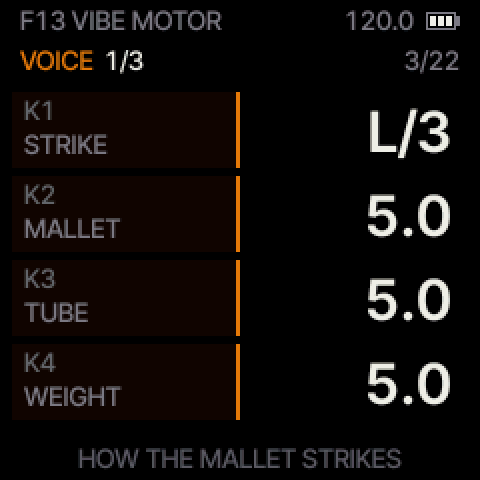
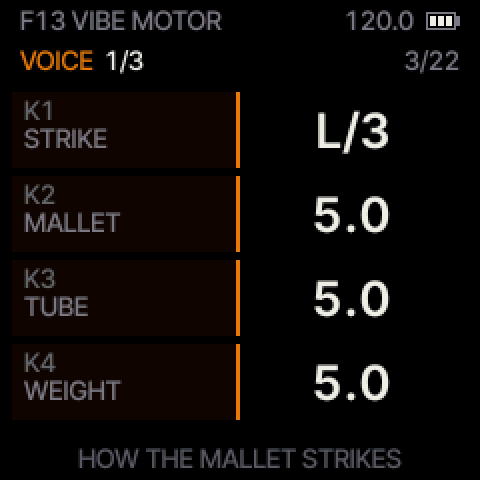
UI: design A is the default (fader fill, selector blocks, switch light), the value face 24 px with room to breathe
The user picked A at 24 px from sizes-A.png, then: "font need to breathe but like the design".
- CC 11's default is 3 (A): amounts the FADER fill (the edge never crosses text), selectors one block per option lit
  up to the option (over 16 options only the blocks' caps), ON / OFF a lit dot / a ring. CC 11 keeps 0 (the rows
  before the design pass), 1 FADER, 2 LINE, 4 B (pips), 5 C (BACK) for comparing on the FM-1 (not saved).
- The large face is 24 px by default (aatext.c UI_VAL_PX; 25 and 28 still build); the 28 px AF_L leaves the image.
- Breathing room (UI_BREATHE, on with 24 px): +0.75 px between the value's letters (aatext.c AA_L_TRACK16, the
  large face only: values, the TYPE flash, the splash), the value 4 px further from the right edge (right margin
  12 px), the unit 5 px after the number (was 3), 14 px at least between the label and the value (was 12). The
  rows keep 38 px (4 cards + header + footer fill the 240 px): the 24 px capitals already have 10 px above and below.
  Compared in private/ui-simplify/design-pass/breathe.png (tools/cards_sheet.py --breathe).
- Short forms now (fitscan): only on ASSIGN: TREM/WAH -> TRM/WAH, COMP MKUP -> CMP GAIN, TREM RATE -> TRM RATE,
  TREM SHAPE -> TRM SHP, PHA SPEED -> PHA SPD, PHA FEEDBK -> PHA FDBK, CHO SPEED -> CHO SPD, DLY FEEDBK -> DLY FDBK;
  every TYPE name in full.
- Merged main (aa9fc44: 9 voices, the All Notes Off fixes); README conflict resolved (9 voices + the new card text).
[…]

diff --git a/tests/py/test_ui_cards.py b/tests/py/test_ui_cards.py
@@ -36,18 +36,23 @@ W, RH = 228, 38                                                   # ui.c RW_W, R
 STYLE = {1: {"amount": "F", "select": "F", "toggle": "F"}, 2: {"amount": "L", "select": "L", "toggle": "L"},
          3: {"amount": "F", "select": "S", "toggle": "D"}, 4: {"amount": "F", "select": "P", "toggle": "D"},
          5: {"amount": "F", "select": "S", "toggle": "B"}}
-# every value written in its short form (ui.c CD_LONG / CD_SHORT) at 28 px: (page, label, short form)
-SHORT = {("FRODHES", "TYPE", "FELT"), ("FRODHES", "TYPE", "DYNO")} | {("ASSIGN", "PLAYS", s) for s in
-                                          ("TRM/WAH", "CMP THR", "CMP GAIN", "TRM RATE", "TRM SHP", "PHA SPD",
-                                           "PHA FDBK", "CHO SPD", "DLY FDBK")}
+# every value written in its short form (ui.c CD_LONG / CD_SHORT) in the default build (24 px, breathing):
+# (page, label, short form); the other sizes: no value that does not fit
+SHORT = {("ASSIGN", "PLAYS", s) for s in ("TRM/WAH", "CMP GAIN", "TRM RATE", "TRM SHP", "PHA SPD", "PHA FDBK",
+                                          "CHO SPD", "DLY FDBK")}
+DEF_PX = 24                                                       # aatext.c UI_VAL_PX
 KEYS = M.KEYS + [f"rowbox{k}" for k in range(4)] + ["cards"]
 SYNC_NAMES = {"1/32", "16T", "1/16", "8T", "16D", "1/8", "4T", "8D", "1/4", "4D", "1/2", "1/1", "2BAR", "4BAR"}
 LOOK_C = [False]
 
 
+def type_lines(cc_n, v):
+    return [cc(100, cc_n, v)]
+
+
 def binary(px):
-    """the host build with the large face at px (28: the normal one)"""
-    if px == 28:
+    """the host build with the large face at px (DEF_PX: the normal one)"""
+    if px == DEF_PX:
         hostrun.build()
         return hostrun.BIN
     b = os.path.join(hostrun.ROOT, "build", "host", f"frodhes_v{px}")
@@ -60,12 +65,12 @@ def binary(px):
     return b
 
 
-def run(tag, lines, end, px=28):
+def run(tag, lines, end, px=DEF_PX):
     return hostrun.run(tag, lines, end, binary=binary(px), check=False)
 
 
-def walk(tag, cc_n, v, variant, turns=None, look=None, px=28):
-    L, t, visits = [cc(50, 11, variant)] + ([cc(60, 2, look)] if look else []) + M.type_lines(cc_n, v), M.T0, []
+def walk(tag, cc_n, v, variant, turns=None, look=None, px=DEF_PX):
+    L, t, visits = [cc(50, 11, variant)] + ([cc(60, 2, look)] if look else []) + type_lines(cc_n, v), M.T0, []
     for i in range(M.NWALK):
         if i:
             L.append(f"{t} turn 0 1"); t += M.STEP
@@ -228,7 +233,7 @@ def check_page(im, s, where, variant):
 _pages = {}
 
 
-def pages(name, cc_n, v, variant, px=28):
+def pages(name, cc_n, v, variant, px=DEF_PX):
     key = (name, variant, px)
     if key not in _pages:
         _pages[key] = walk(f"cards{variant}_{px}_{name}", cc_n, v, variant, px=px)
@@ -250,26 +255,26 @@ def every_page(name, cc_n, v, variant, px):
 @pytest.mark.parametrize("variant", [1, 2, 3, 4, 5], ids=[NAMES[i] for i in range(1, 6)])
 @pytest.mark.parametrize("name,cc_n,v", TYPES3, ids=[t[0] for t in TYPES3])
 def test_cards_every_page(name, cc_n, v, variant):
-    """every page at its defaults, then with each knob turned (amounts +9, choices +1), 28 px"""
-    every_page(name, cc_n, v, variant, 28)
+    """every page at its defaults, then with each knob turned (amounts +9, choices +1), the default face"""
+    every_page(name, cc_n, v, variant, DEF_PX)
 
 
-@pytest.mark.parametrize("px", [25, 24])
+@pytest.mark.parametrize("px", [25, 28])
 @pytest.mark.parametrize("variant", [3, 4, 5], ids=["A", "B", "C"])
 @pytest.mark.parametrize("name,cc_n,v", [M.TYPES[2], M.TYPES[4]], ids=["FELT", "VIBE"])
 def test_cards_every_page_small_faces(name, cc_n, v, variant, px):
-    """the same at the smaller value faces (-10 %, -15 %)"""
+    """the same with the other value faces (25, 28 px)"""
     every_page(name, cc_n, v, variant, px)
 
 
-@pytest.mark.parametrize("px", [28, 24])
+@pytest.mark.parametrize("px", [24, 28])
 @pytest.mark.parametrize("variant", [1, 2, 3, 4, 5], ids=[NAMES[i] for i in range(1, 6)])
 def test_cards_every_choice_option(variant, px):
     """every choice card of both engines through every option: each drawn by its kind's rule at each option"""
     errs, n = [], 0
     for name, cc_n, v in (M.TYPES[0], M.TYPES[4]):
         ps = pages(name, cc_n, v, variant, px)
-        L, t, marks = [cc(50, 11, variant)] + M.type_lines(cc_n, v), M.T0, []
+        L, t, marks = [cc(50, 11, variant)] + type_lines(cc_n, v), M.T0, []
         for i, (_, _, s) in enumerate(ps):
             if i:
                 L.append(f"{t} turn 0 1"); t += 400
@@ -326,16 +331,14 @@ def test_cards_other_looks(variant, look):
 @pytest.mark.parametrize("variant", [1, 3, 4, 5])
 def test_fitscan(variant, px):
     """every value of every card (every TYPE, the switches as they are and all on, the synced note values) fits the
-    large face, the LED's place too; the short forms used are SHORT (28 px; the smaller faces need fewer)"""
+    large face, the LED's place too; the short forms used are SHORT in the default build"""
     r = run(f"cards_fitscan{variant}_{px}", [cc(50, 11, variant), f"{M.T0} expect state fitscan 0"], M.T0 + 50, px)
     bad = re.findall(r"^FITSCAN BAD (.*)$", r.out, re.M)
     assert not bad, sorted(set(bad))[:40]
     assert 'ok   expect state fitscan' in r.out, r.out[-2000:]
     got = set(re.findall(r"^FITSCAN SHORT (\S+)(?: \d)? K\d (.+?) = (.+?) -?\d+ -?\d+$", r.out, re.M))
-    if px == 28:
+    if px == DEF_PX:
         assert got == SHORT, (sorted(got - SHORT), sorted(SHORT - got))
-    else:
-        assert got <= SHORT, sorted(got - SHORT)
     print(f"{NAMES[variant]} {px} px short forms: {sorted(got)}")
 
 
@@ -344,7 +347,7 @@ def test_cards_hot_frame(variant):
     """turn K1..K4 on REVERB one at a time: that row alone framed with an amber label while turned, none at 1.5 s"""
     ps = pages("ST77", 80, 8, variant)
     pos = [M.title_of(s) for _, _, s in ps].index("REVERB")
-    L, t = [cc(50, 11, variant)] + M.type_lines(80, 8), M.T0
+    L, t = [cc(50, 11, variant)] + type_lines(80, 8), M.T0
     for _ in range(pos):
         L.append(f"{t} turn 0 1"); t += 100
     t += 500
@@ -375,7 +378,7 @@ def test_cards_hot_frame(variant):
     assert not errs, "\n".join(errs)
 
 
-def test_default_is_today():
-    """no CC 11: the rows as today (cards 0)"""
-    r = run("cards_default", [f"{M.T0} expect state cards 0"], M.T0 + 50)
+def test_default_is_a():
+    """no CC 11: A (cards 3), the user's pick"""
+    r = run("cards_default", [f"{M.T0} expect state cards 3"], M.T0 + 50)
     assert 'ok   expect state cards' in r.out, r.out[-1500:]

diff --git a/firmware/src/ui.c b/firmware/src/ui.c
@@ -205,20 +205,21 @@ static const mt_look_t MT_LOOKS[] = {
 static uint8_t ui_look;                                 /* developer CC 2 (not saved) */
 /* the design pass (2026-10-18, private/ui-simplify/design-pass/): the rows' typography and meter, three variants for
  * the user to choose from; developer CC 11 (not saved), the default by build (APP_DEFS=-DUI_CARDS_DEF=n):
- *   0 TODAY   the rows as they are (the default until the user picks);
+ *   0 TODAY   the rows before the design pass (kept for comparing on the FM-1);
  *   1 FADER   the row's amber fill (the METERS look) on every card, a choice's too (its option's place in its list,
  *             OFF empty); one value size, one value edge, one baseline; the fill's bright edge stops 3 px short of
  *             any text (above and below it), so nothing crosses a digit or a letter; no edge at 0;
  *   2 LINE    the same typography with no fill: a 3 px meter line along each row's bottom, amber for the amount;
  * then the card kinds told apart at a glance (the user: "not clear what is a toggle or selector and what is a fader"),
  * an amount always the FADER fill:
- *   3 A       selectors SEGMENTS (one block per option, 2 px apart, lit up to the option), toggles LED (a dot before
+ *   3 A       THE DEFAULT (the user's pick, 2026-10-18): selectors SEGMENTS (one block per option, 2 px apart, lit up to the option), toggles LED (a dot before
  *             ON / OFF: lit ON, a ring OFF);
  *   4 B       selectors PIPS (one small pip per option under the value, the option's amber), toggles LED;
  *   5 C       selectors SEGMENTS, toggles BACK (the whole card lit ON, nothing OFF, no edge).
- * The large face's size is the build's (aatext.c UI_VAL_PX: 28, 25, 24). */
+ * The large face's size is the build's (aatext.c UI_VAL_PX: 24 the default, 25, 28), and its breathing room
+ * (UI_BREATHE: 1 the default, 0 the tighter first version). */
 #ifndef UI_CARDS_DEF
-#define UI_CARDS_DEF 0
+#define UI_CARDS_DEF 3
 #endif
 #define UI_CARDS_N 6u
 static uint8_t ui_cards = UI_CARDS_DEF;
@@ -771,13 +772,13 @@ static void draw_row(uint32_t k)
  *     fraction);
  *   - the turned knob: its label in the accent and the 1 px frame (HOT_MS), as today. */
 #define CD_PAD 6                                        /* the text's margin on the left */
-#define CD_PAD_R 10                                     /* and on the right (after the unit column) */
+#define CD_PAD_R (UI_BREATHE ? 12 : 10)                 /* and on the right (after the unit column) */
 #define CD_UNIT_W 22                                    /* the unit column: "kHz" in AF_S */
-#define CD_UGAP 3
-#define CD_VR ((int32_t)RW_W - CD_PAD_R - CD_UNIT_W - CD_UGAP)   /* 193: where every value ends */
+#define CD_UGAP (UI_BREATHE ? 5 : 3)                    /* between the number and its unit */
+#define CD_VR ((int32_t)RW_W - CD_PAD_R - CD_UNIT_W - CD_UGAP)   /* where every value ends (189; 193 tight) */
 #define CD_BASE (((int32_t)RW_H + AF_L_CAP_H + 1) / 2)  /* the baseline of the label, the value and the unit: the
                                                          * capitals centred in the row (28 px: 30, 25: 29, 24: 28) */
-#define CD_GAP 12                                       /* the least room between the label and the value */
+#define CD_GAP (UI_BREATHE ? 14 : 12)                   /* the least room between the label and the value */
 #define CD_KEEP 3                                       /* FADER: the edge stops this far from any text */
 #define CD_MINSEG 3                                     /* FADER: an edge piece shorter than this is left out */
 #define CD_LINE_H 3                                     /* LINE: the meter line, rows 34 .. 36 (37: the frame) */

diff --git a/tools/cards_sheet.py b/tools/cards_sheet.py
@@ -5,6 +5,8 @@ same pages, in the framebuffer's own colours (tools/manual_shots.py's default), 
 build per size: -DUI_VAL_PX=28 / 25 / 24, aatext.c).
 
   tools/cards_sheet.py [OUT_DIR]     (default private/ui-simplify/design-pass)
+  tools/cards_sheet.py --breathe [OUT_DIR]   only breathe.png: A at 24 px, the tight first version (UI_BREATHE=0)
+                                             next to the breathing one (the default)
 
 Writes to OUT_DIR:
   sheet-<combo>-<px>px.png     the ten pages, one combination at one size (A = SEGMENTS + LED, B = PIPS + LED,
@@ -40,16 +42,17 @@ def font(px):
     return ImageFont.truetype(os.path.join(ROOT, "assets", "fonts", "InterTight[wght].ttf"), px)
 
 
-def host(px):
-    b = os.path.join(ROOT, "build", "host", f"frodhes_v{px}")
+def host(px, breathe=1):
+    b = os.path.join(ROOT, "build", "host", f"frodhes_v{px}" + ("" if breathe else "_tight"))
     subprocess.run(["cc", "-O2", "-Wall", "-Wno-unused-function", "-DDINGHY_HOST", "-DAPP_VER=\"dev\"", f"-DUI_VAL_PX={px}",
-                    "-Ifirmware/src", "-Ifirmware/gen", "-o", b, "firmware/src/frodhes.c", "-lm"], cwd=ROOT, check=True)
+                    f"-DUI_BREATHE={breathe}", "-Ifirmware/src", "-Ifirmware/gen", "-o", b, "firmware/src/frodhes.c",
+                    "-lm"], cwd=ROOT, check=True)
     return b
 
 
-def shoot(n, px):
-    out = os.path.join(ROOT, "build", "design", f"c{n}-{px}")
-    env = dict(os.environ, FRODHES_HOST_BIN=host(px))
+def shoot(n, px, breathe=1):
+    out = os.path.join(ROOT, "build", "design", f"c{n}-{px}" + ("" if breathe else "-tight"))
+    env = dict(os.environ, FRODHES_HOST_BIN=host(px, breathe))
     subprocess.run([sys.executable, os.path.join(ROOT, "tools", "manual_shots.py"), "--cards", str(n), "--out", out],
                    check=True, capture_output=True, env=env)
     return out
@@ -67,9 +70,28 @@ def grid(ims, cols, caps, title, w=480):
     return o
 
 
+BREATHE = [("piano", "FRODHES (Rhodes)"), ("piano-vibes", "FRODHES (VIBES)"), ("voice1-vibes", "VIBES VOICE 1/3")] + CHOICES
+
+
+def breathe(dst):
+    """breathe.png: A at 24 px, the tight first version (UI_BREATHE=0) next to the breathing one"""
+    tight, air = shoot(3, 24, 0), shoot(3, 24, 1)
+    ims, caps = [], []
+    for p, c in BREATHE:
+        for d, t in ((tight, "now"), (air, "breathing")):
+            ims.append(Image.open(os.path.join(d, f"{p}.png")).convert("RGB")); caps.append(f"{c}: {t}")
+    grid(ims, 4, caps, "A at 24 px: now | breathing (+0.75 px between the value's letters, the value 4 px further "
+         "in, the unit 2 px further out, 14 px after the label)").save(os.path.join(dst, "breathe.png"))
+
+
 def main():
-    dst = os.path.abspath(sys.argv[1] if len(sys.argv) > 1 else os.path.join(ROOT, "private", "ui-simplify", "design-pass"))
+    args = [a for a in sys.argv[1:] if not a.startswith("--")]
+    dst = os.path.abspath(args[0] if args else os.path.join(ROOT, "private", "ui-simplify", "design-pass"))
     os.makedirs(dst, exist_ok=True)
+    if "--breathe" in sys.argv:
+        breathe(dst)
+        print(os.path.join(dst, "breathe.png"))
+        return
     src = {}
 
     def get(n, tag, px, page):

diff --git a/firmware/src/aatext.c b/firmware/src/aatext.c
@@ -22,6 +22,17 @@ typedef struct {
 /* the design pass (2026-10-18, the user: "a big font but some margin, maybe 10 % smaller, maybe 15"): a build may set
  * the large face's size, APP_DEFS=-DUI_VAL_PX=25 (-10 %) or 24 (-15 %); the face replaces AF_L everywhere (one large
  * face in the image: AF_L's tables then drop out). Generated by gen_aa_font.py --value-px N. */
+#ifndef UI_VAL_PX
+#define UI_VAL_PX 24                    /* the default since 2026-10-18 (the user picked A at 24 px) */
+#endif
+/* the large face's breathing room (the user: "font need to breathe"): +0.75 px between its letters (AA_L_TRACK16, in
+ * 1/16 px), and in ui.c more room around the value; UI_BREATHE=0 builds the tighter first version (the comparison) */
+#ifndef UI_BREATHE
+#define UI_BREATHE (UI_VAL_PX == 24)        /* (the 25 / 28 px builds keep the tight room: their values need it) */
+#endif
+#ifndef AA_L_TRACK16
+#define AA_L_TRACK16 (UI_BREATHE ? 12 : 0)
+#endif
 #if defined(UI_VAL_PX) && UI_VAL_PX == 25
 #include "aa_font_v25.h"
 #define AF_L AF_V25
@@ -207,7 +218,7 @@ static int32_t aa_text_w(const aafont_t *f, const char *s)
     uint32_t prev = 0;
     for (; *s; s++) {
         uint32_t c = aa_fold(f, (uint8_t)*s);
-        if (prev) pen += aa_kern(f, prev, c);
+        if (prev) pen += aa_kern(f, prev, c) + (f == &AF_L ? AA_L_TRACK16 : 0);   /* (the large face: tracked) */
         pen += f->g[aa_glyph(f, c)].adv;
         prev = c;
     }
@@ -226,7 +237,7 @@ static int32_t aa_text(int32_t x, int32_t y, const aafont_t *f, const char *s, u
         uint32_t c = aa_fold(f, (uint8_t)*s);
         const aag_t *g;
         int32_t pos, d0, d1;
-        if (prev) pen += aa_kern(f, prev, c);
+        if (prev) pen += aa_kern(f, prev, c) + (f == &AF_L ? AA_L_TRACK16 : 0);   /* (the large face: tracked) */
         g = &f->g[aa_glyph(f, c)];
         if (f->psh && g[1].off != g->off) {
             pos = pen - (pen & (step - 1));

diff --git a/tests/py/test_ui_meters.py b/tests/py/test_ui_meters.py
@@ -54,7 +54,7 @@ ROW_X0, ROW_X1, ROW_Y0, ROW_DY, ROW_H = 6, 233, 46, 42, 38      # plan §2: x 6-
 LABEL_X1 = 90                                                     # the labels end before x 90 (where amber is looked for)
 VALUE_XR = ROW_X0 + 220                                           # ui.c draw_row: values right-aligned at row x 220
 # a choice's option written in the small face (too wide for the large one next to its label): (page, label, value)
-SMALL_OK = {("ASSIGN", "PLAYS", "TREM SHAPE")}                    # 170 px in the large face, 167 px free
+SMALL_OK = set()                                                  # (28 px: TREM SHAPE; the 24 px face fits all)
 T0, STEP, NWALK = 2500, 600, 30                                   # after the start screen and the TYPE message
 PROBE = "~"
 KEYS = (["title", "count", "page", "vpage", "hint", "hot"] + [f"row{k}" for k in range(4)] + [f"label{k}" for k in range(4)]
@@ -99,7 +99,7 @@ def row_face(s):
 
 
 def type_lines(cc_n, v):
-    return [cc(100, cc_n, v)]
+    return [cc(90, 11, 0), cc(100, cc_n, v)]                       # today's rows (developer CC 11 0; the default is A)
 
 
 def walk(tag, cc_n, v, turns=None, look=None):

diff --git a/tests/py/test_ui_types.py b/tests/py/test_ui_types.py
@@ -50,4 +50,4 @@ def test_type_names_same_size():
         names = re.findall(r'expect state card.2.0 = "~" \(is "([^"]*)"\)', out)
         assert names == ["STAGE 77", "SUITCASE", "EARLY FELT", "BELL DYNO", "VIBES"], names
         assert len(rows) == len(sel) and all(r.split()[0] == "choice" and r.split()[-1] == "L" for r in rows), rows
-        assert heights[0] >= 18, heights                                # the large face (~20 px), not the small
+        assert heights[0] >= 16, heights                                # the large face (24 px: ~18), not the small

diff --git a/docs/MANUAL.md b/docs/MANUAL.md
@@ -61,15 +61,24 @@ have two VOICE pages (VOICE 1/2: TONE, BARK, BELL, HAMMER; VOICE 2/2: DECAY, REL
 order; changing the TYPE changes the pages with it.
 
 **Reading a card.** Each card shows its knob (K1–K4, small), the control's name, and its value on the right in large
-figures, with the unit beside it in small letters (Hz, kHz, ms, dB, c for cents, x). Then, by the kind of control:
+figures, every value the same size and ending at the same place, with the unit beside it in small letters (Hz, kHz,
+ms, s, dB, c for cents, %). What is drawn behind the value tells you at a glance what kind of control it is:
 
-- **An amount** (DEPTH, MIX, a time, a frequency ...): the card itself is the gauge. It fills with dim amber from the
-  left up to the value, with a bright amber edge where the fill ends: empty at 0, full at the top.
-- **A choice** (TYPE, EFFECT, ON / OFF, a note value, a scale, a chord type ...): no fill; the option it is on is
-  written out in full on the right, in the same large letters as a number (**STAGE 77**, **LP18**, **ON**, **1/16**),
-  and changes as you turn. (The one name too long for its card, ASSIGN's **TREM SHAPE**, is written smaller.)
-- **A knob with named spots** (VIBES' STRIKE: CENTRE, L/3, EDGE; MALLET: SOFT, YARN, CORD, RUBBER): a fill like an
-  amount, with the name when the knob is on one, else the number between two of them.
+- **An amount** (DEPTH, MIX, a time, a frequency ...): the card is a fader. It fills with dim amber from the left up
+  to the value, with a bright amber edge where the fill ends (the edge stops short of the letters, so it never cuts a
+  number): empty at 0, full at the top.
+- **A selector** (TYPE, EFFECT DIG / ANA, a filter type, a note value, a scale, a chord type ...): the card is cut
+  into one block per option, and the blocks light up to the option it is on, each with a small cap at its foot (amber
+  lit, grey not); the option is written out in full (**STAGE 77**, **LP18**, **1/16**). An option called OFF lights no
+  block. With more than 16 options (MIDI CHANNEL, ASSIGN) only the caps are drawn, as a ruler. A rate or a time synced
+  to the tempo is a selector too: its note value.
+- **A switch** (ON / OFF: an effect on its page, the motor, TRS IN): a round light before the word, amber when ON, an
+  empty ring when OFF.
+- **A knob with named spots** (VIBES' STRIKE: CENTRE, L/3, EDGE; MALLET: SOFT, YARN, CORD, RUBBER): a fader, with the
+  name when the knob is on one, else the number between two of them.
+
+A few names too long for their card are written shorter, in the same large letters: on ASSIGN **TRM/WAH**, **TRM
+RATE**, **TRM SHP**, **PHA SPD**, **PHA FDBK**, **CHO SPD**, **DLY FDBK**, **CMP GAIN** (the compressor's make-up).
 
 **The card you are turning** gets a thin amber frame and its name turns amber, for about a second after you stop.
 The numbers are rounded to what fits on the card (1.486 s shows 1.5 s, +11.8 dB shows +12 dB).
@@ -663,7 +672,7 @@ The TRS jack is MIDI in only. **Program Change** 0–13 loads F01–F14, 16–31
 | 70 / 74 | FILTER TYPE (7 bands: off, LP12, LP18, HP12, HP18, BP, notch) / CUTOFF | 71 / 72 | FILTER RESONANCE / LFO AMOUNT |
 | 75 / 76 | LFO SHAPE (6 bands) / RATE | 77 / 78 | LFO SYNC / RETRIG (free, key) |
 | 3 | Developer: a colour test pattern on the screen (≥ 64; < 64 back to the page), to calibrate screenshots against the panel | 2 | Developer: the screen's colour candidate, for choosing on the FM-1: 0 = A black (the default), 1 = B dim outline, 2 (or more) = C model-matched; not saved |
-| 11 | Developer: the rows' design variant, for choosing on the FM-1: 0 = today's rows (the default), 1 = FADER (the row fill on every card, one value size, the fill's edge never crosses text), 2 = LINE (one value size, a thin meter line under each row); then the card kinds told apart (amounts the fill): 3 = A (selectors in blocks, ON / OFF a lit dot), 4 = B (selectors as pips under the value, ON / OFF a lit dot), 5 (or more) = C (selectors in blocks, ON lights the whole card); not saved | | |
+| 11 | Developer: the cards' design, for comparing on the FM-1 (not saved): 3 = the normal look (faders, selector blocks, switch lights); 0 = the rows before the design pass (a choice written large, no fill), 1 = a fill on every card, 2 = a thin meter line under each row, 4 = selectors as small pips under the value, 5 (or more) = a switch lights its whole card | | |
 | 52 / 53 | ARP MODE (0 off, 1 up, 2 down, 3 up-dn, 4 order, 5 random) / RATE (0–5: 1/4 … 1/32) | 54 / 55 | ARP OCTAVES (0–3 = 1–4) / GATE (10–100 %) |
 
 The FM-1 also appears as a USB audio input (class-compliant, stereo, 16-bit, 44.1 or 48 kHz): you can record exactly
